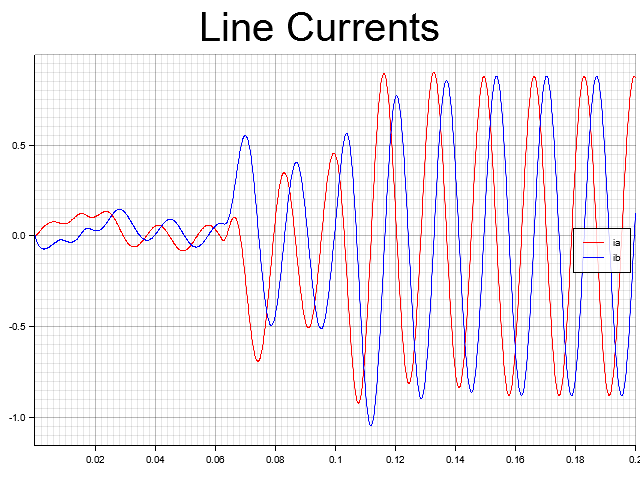
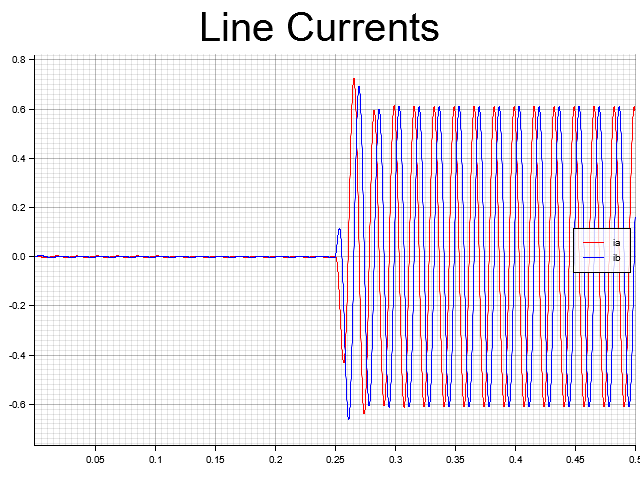
Update simulation to have states in scientific units

Changed region(s): [[0.0, 0.0938, 1.0, 0.9688]]

diff --git a/src/main.rs b/src/main.rs
@@ -7,9 +7,9 @@ use unifi_gfm::sims::*;
 use unifi_gfm::calc;
 use unifi_gfm::refs::{alpha_beta_fr_polar, alpha_beta_fr_ab};
 use unifi_gfm::constants::PI;
-//use unifi_gfm::inv::test;
 
-const OUT_FILE_NAME: &'static str = "images/voltages.png";
+const VOLTAGE_FILE_NAME: &'static str = "images/voltage.png";
+const THETA_FILE_NAME: &'static str = "images/thetas.png";
 const POWER_OUT_FILE_NAME: &'static str = "images/powers.png";
 const CURRENT_OUT_FILE_NAME: &'static str = "images/currents.png";
 const DELTA_OUT_FILE_NAME: &'static str = "images/deltas.png";
@@ -17,7 +17,7 @@ fn main() -> Result<(), Box<dyn std::error::Error>> {
     /* 
     DEFINE SYSTEM PARAMETERS & CONSTRUCT OBJECTS
     */
-    let v_nom: f32 = 120.;
+    let v_nom: f32 = 80.;
     let f_nom: f32 = 60.;
     let w_nom: f32 = f_nom * 2. * PI;
     let s_rated: f32 = 500.;
@@ -25,21 +25,20 @@ fn main() -> Result<(), Box<dyn std::error::Error>> {
     let xi: f32 = 15.;
     let c: f32 = 0.2679;
     let mut inv = build_dvoc_controller(v_nom, w_nom, s_rated, xi, c);
-    inv.theta = -dt * 0.5;  // Initialize inverter angle leading the grid angle
+    inv.theta = -dt * 0.47 * w_nom;  // Initialize inverter angle leading the grid angle by ~half a cycle to start closer to the digital equalibria
+    inv.v = v_nom * 0.999965;  // Initialize inverter voltage slightly lower than nominal to start closer to the digital equalibria
 
     let rf = 0.8;
     let lf = 1.5e-3;
     let mut line: RLFilter = build_rl_line(w_nom, s_rated, rf, lf);
     let mut bus: ACVoltSrc = build_ac_volt_src(v_nom, w_nom, s_rated);
 
-    // TODO: Debug simulation results being weird for cont_n_steps > 5. Seems to be something happening in the grid or line dynamics every some period
-
-    /* 
+    /*
     RUNNING DYNAMICAL SIMULATION
     */
-    let t_end = 0.2;  // Simulate time in seconds
+    let t_end = 0.5;  // Simulate time in seconds
     let n_steps: u32 = (t_end / dt).ceil() as u32;
-    let cont_n_steps = 50;  // Number of steps taken for 'continuous' dynamics for each digital step
+    let cont_n_steps = 20;  // Number of steps taken for 'continuous' dynamics for each digital step
     let cont_dt = dt / (cont_n_steps as f32);
     let steps: Vec<u32> = (0..n_steps+1).collect();
     let mut t: f32;
@@ -55,10 +54,6 @@ fn main() -> Result<(), Box<dyn std::error::Error>> {
     let mut ib_values: Vec<(f32, f32)> = vec![(0., 0.); (n_steps+1) as usize];
     for step in steps {
         t = step as f32 * dt;
-        if t > (t_end / 4.) {
-            inv.set_p_ref(0.0);
-        }
-        
         if t > (t_end / 2.) {
             inv.set_p_ref(100.0);
         }
@@ -70,7 +65,12 @@ fn main() -> Result<(), Box<dyn std::error::Error>> {
         thetag_values[step as usize] = (t, bus.theta);
         ia_values[step as usize] = (t, line.i_alpha);
         ib_values[step as usize] = (t, line.i_beta);
-        let delta = inv.theta - bus.theta;
+        let mut delta = inv.theta - bus.theta;
+        if delta > PI {
+            delta = -2.*PI + delta;
+        } else if delta < -PI {
+            delta = 2.*PI + delta;
+        }
         delta_values[step as usize] = (t, delta);
 
         // Step the controller
@@ -79,19 +79,19 @@ fn main() -> Result<(), Box<dyn std::error::Error>> {
         // Step the system
         for n in 0..cont_n_steps {
             // Calculate power
-            let v = alpha_beta_fr_polar(inv.kv * inv.v, (inv.w_nom * inv.theta) % (2.*PI));
+            let v = alpha_beta_fr_polar(inv.v, inv.theta);
             let i = alpha_beta_fr_ab(line.i_alpha, line.i_beta);
             (p, q) = calc::calc_power(v, i);
             p_values[(cont_n_steps*step + n) as usize] = (t + (n as f32)*cont_dt, p);
             q_values[(cont_n_steps*step + n) as usize] = (t + (n as f32)*cont_dt, q);
             bus.step_(cont_dt);
-            line.step(cont_dt, [inv.kv * inv.v, (inv.w_nom * inv.theta) % (2.*PI), 
-                           bus.v_nom * bus.v, (bus.w_nom * bus.theta) % (2.*PI)]);
+            line.step(cont_dt, [inv.v, inv.theta, 
+                                   bus.v, bus.theta]);
         }
     }
-    println!("v: {}, theta: {}", inv.v * inv.v_nom, (inv.w_nom * inv.theta) % (2.*PI));
+    println!("v: {}, theta: {}", inv.v, inv.theta);
     println!("ia: {}, ib: {}", line.i_alpha, line.i_beta);
-    println!("vg: {}, thetag: {}", bus.v * bus.v_nom, (bus.w_nom * bus.theta) % (2.*PI));
+    println!("vg: {}, thetag: {}", bus.v, bus.theta);
     println!("p: {}, q: {}", p, q);
 
     /* 
@@ -100,21 +100,28 @@ fn main() -> Result<(), Box<dyn std::error::Error>> {
 
     let v_values_ = v_values.to_vec();
     let theta_values_ = theta_values.to_vec();
+    let vg_values_ = vg_values.to_vec();
+    let thetag_values_ = thetag_values.to_vec();
     let delta_values_ = delta_values.to_vec();
     let p_values_ = p_values.to_vec();
     let q_values_ = q_values.to_vec();
     let ia_values_ = ia_values.to_vec();
     let ib_values_ = ib_values.to_vec();
 
-    // Plot the data
-    let root = BitMapBackend::new(OUT_FILE_NAME, (640, 480)).into_drawing_area();
+    /* Plot voltage magnitude data */
+    let (_,mut vs): (Vec<f32>, Vec<f32>) = v_values.into_iter().unzip();
+    let (_,mut vgs): (Vec<_>, Vec<_>) = vg_values.into_iter().unzip();
+    vs.append(&mut vgs);
+    let min_v: f32 = vs.iter().fold(f32::INFINITY, |a, &b| a.min(b));
+    let max_v: f32 = vs.iter().fold(0.0f32, |a, &b| a.max(b));
+    let root = BitMapBackend::new(VOLTAGE_FILE_NAME, (640, 480)).into_drawing_area();
     root.fill(&WHITE)?;
     let mut chart = ChartBuilder::on(&root)
-        .caption("Voltage & Angle", ("sans-serif", 50).into_font())
+        .caption("Voltage Magnitudes", ("sans-serif", 50).into_font())
         .margin(5 as u32)
         .x_label_area_size(30 as u32)
         .y_label_area_size(30 as u32)
-        .build_cartesian_2d(0.0f32..t_end, -0.1f32..1.1f32)?;
+        .build_cartesian_2d(0.0f32..t_end, min_v..max_v)?;
 
     chart.configure_mesh().draw()?;
 
@@ -123,32 +130,58 @@ fn main() -> Result<(), Box<dyn std::error::Error>> {
             v_values_,
             &RED,
         ))?
-        .label("Voltage")
+        .label("Inv Voltage")
         .legend(|(x, y)| PathElement::new(vec![(x, y), (x + 20, y)], &RED));
+    
+    chart
+        .draw_series(LineSeries::new(
+            vg_values_,
+            &GREEN,
+        ))?
+        .label("Bus Voltage")
+        .legend(|(x, y)| PathElement::new(vec![(x, y), (x + 20, y)], &GREEN));
+
+    chart
+        .configure_series_labels()
+        .background_style(&WHITE.mix(0.8))
+        .border_style(&BLACK)
+        .draw()?;
+
+    root.present()?;
+
+    /* Plot voltage angle data */
+    let (_,mut ths): (Vec<f32>, Vec<f32>) = theta_values.into_iter().unzip();
+    let (_,mut thgs): (Vec<_>, Vec<_>) = thetag_values.into_iter().unzip();
+    ths.append(&mut thgs);
+    let min_th: f32 = ths.iter().fold(f32::INFINITY, |a, &b| a.min(b));
+    let max_th: f32 = ths.iter().fold(0.0f32, |a, &b| a.max(b));
+    let root = BitMapBackend::new(THETA_FILE_NAME, (640, 480)).into_drawing_area();
+    root.fill(&WHITE)?;
+    let mut chart = ChartBuilder::on(&root)
+        .caption("Voltage Angles", ("sans-serif", 50).into_font())
+        .margin(5 as u32)
+        .x_label_area_size(30 as u32)
+        .y_label_area_size(30 as u32)
+        .build_cartesian_2d(0.0f32..t_end, min_th..max_th)?;
+
+    chart.configure_mesh().draw()?;
 
     chart
         .draw_series(LineSeries::new(
             theta_values_,
             &BLUE,
         ))?
-        .label("Angle")
+        .label("Inv Theta")
         .legend(|(x, y)| PathElement::new(vec![(x, y), (x + 20, y)], &BLUE));
-    
-    chart
-        .draw_series(LineSeries::new(
-            vg_values,
-            &GREEN,
-        ))?
-        .label("bus Voltage")
-        .legend(|(x, y)| PathElement::new(vec![(x, y), (x + 20, y)], &RED));
 
     chart
         .draw_series(LineSeries::new(
-            thetag_values,
+            thetag_values_,
             &BLACK,
         ))?
-        .label("bus Angle")
-        .legend(|(x, y)| PathElement::new(vec![(x, y), (x + 20, y)], &BLUE));
+        .label("Bus Theta")
+        .legend(|(x, y)| PathElement::new(vec![(x, y), (x + 20, y)], &BLACK));
+
     chart
         .configure_series_labels()
         .background_style(&WHITE.mix(0.8))
